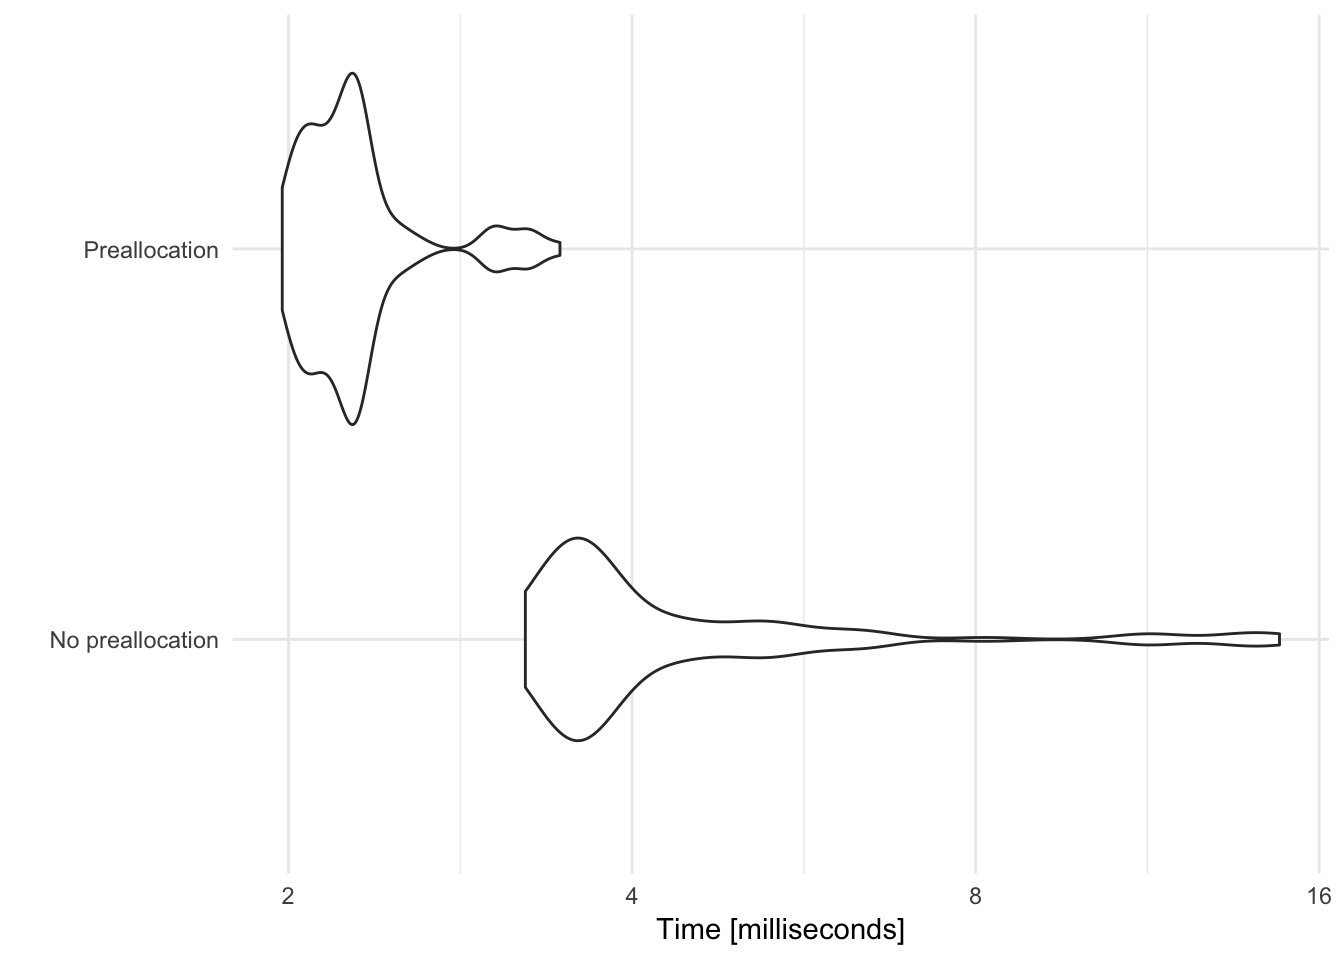
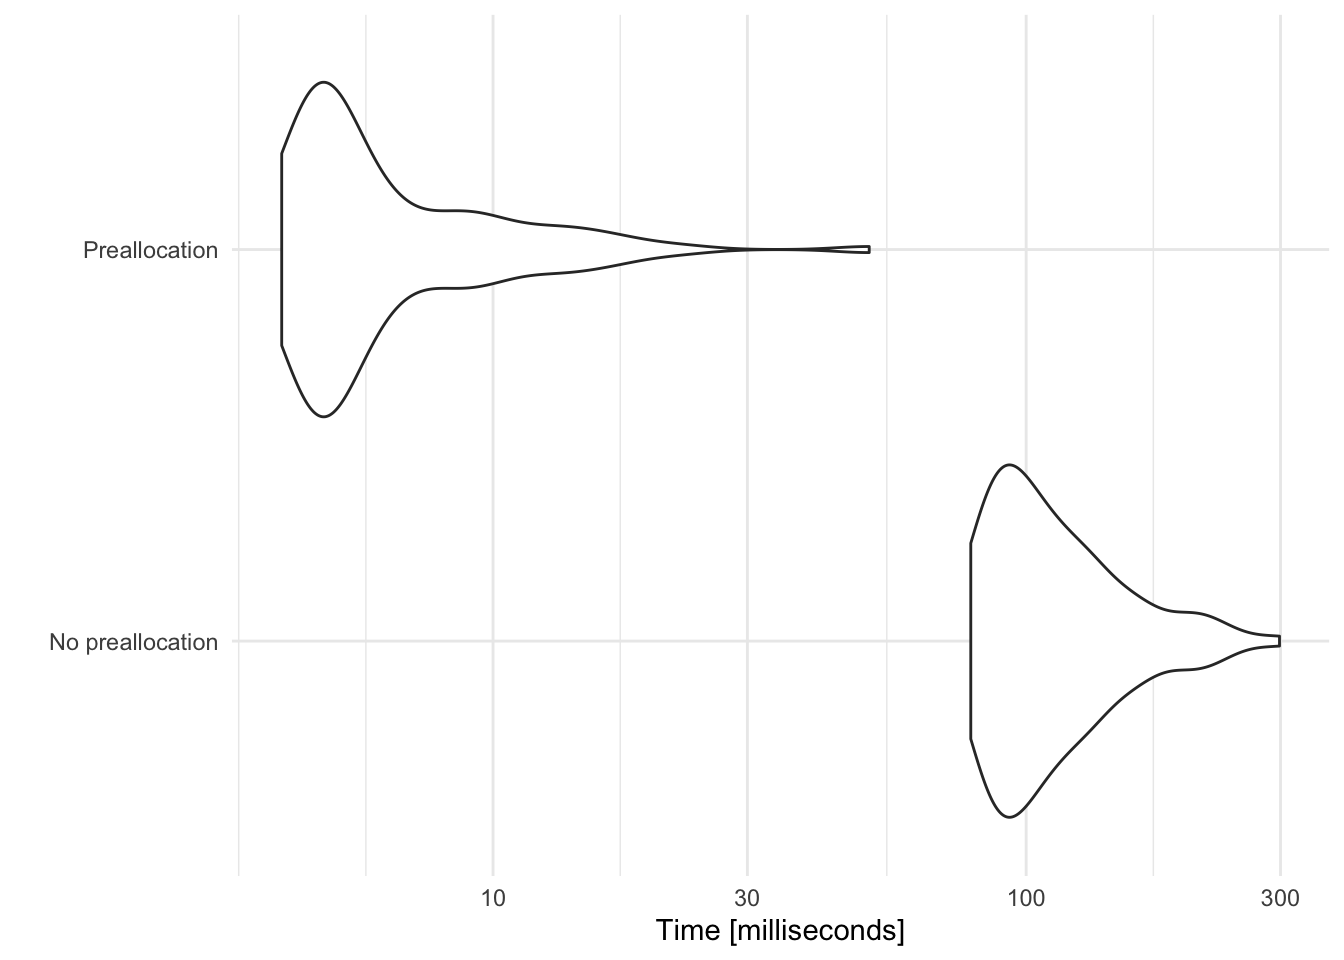
Update preallocation example. Close #248

diff --git a/static/slides/vectors-and-iteration/index.html b/static/slides/vectors-and-iteration/index.html
@@ -418,9 +418,29 @@ output[[i]] &lt;- median(df[[i]])
 
 # Preallocation
 
+```r
+# no preallocation
+mpg_no_preall &lt;- tibble()
 
+for(i in 1:100){
+  mpg_no_preall &lt;- bind_rows(mpg_no_preall, mpg)
+}
 
-&lt;img src="index_files/figure-html/preallocate-plot-1.png" width="864" /&gt;
+# with preallocation using a list
+mpg_preall &lt;- vector(mode = "list", length = 100)
+
+for(i in 1:100){
+  mpg_preall[[i]] &lt;- mpg
+}
+
+mpg_preall &lt;- bind_rows(mpg_preall)
+```
+
+---
+
+# Preallocation
+
+&lt;img src="index_files/figure-html/preallocate-1.png" width="864" /&gt;
 
 ---
 
@@ -551,30 +571,20 @@ if (window.HTMLWidgets) slideshow.on('afterShowSlide', function (slide) {
 })();
 (function() {
   "use strict"
-  /* Replace <script> tags in slides area to make them executable
-   *
-   * Runs after post-processing of markdown source into slides and replaces only
-   * <script>s on the last slide of continued slides using the .has-continuation
-   * class added by xaringan. Finally, any <script>s in the slides area that
-   * aren't executed are commented out.
-   */
+  // Replace <script> tags in slides area to make them executable
   var scripts = document.querySelectorAll(
-    '.remark-slides-area .remark-slide-container:not(.has-continuation) script'
+    '.remark-slides-area .remark-slide-container script'
   );
   if (!scripts.length) return;
   for (var i = 0; i < scripts.length; i++) {
     var s = document.createElement('script');
     var code = document.createTextNode(scripts[i].textContent);
     s.appendChild(code);
+    var scriptAttrs = scripts[i].attributes;
+    for (var j = 0; j < scriptAttrs.length; j++) {
+      s.setAttribute(scriptAttrs[j].name, scriptAttrs[j].value);
+    }
     scripts[i].parentElement.replaceChild(s, scripts[i]);
-  }
-  var scriptsNotExecuted = document.querySelectorAll(
-    '.remark-slides-area .remark-slide-container.has-continuation script'
-  );
-  if (!scriptsNotExecuted.length) return;
-  for (var i = 0; i < scriptsNotExecuted.length; i++) {
-    var comment = document.createComment(scriptsNotExecuted[i].outerHTML)
-    scriptsNotExecuted[i].parentElement.replaceChild(comment, scriptsNotExecuted[i])
   }
 })();
 (function() {
